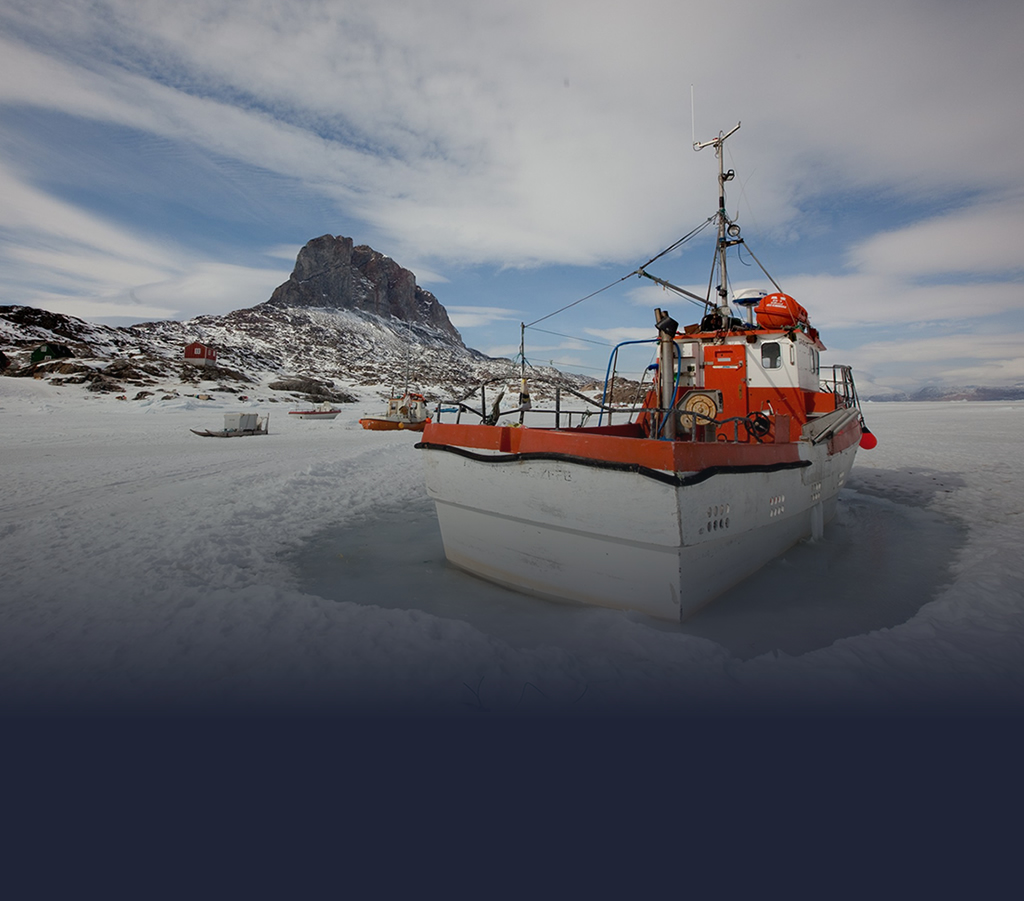
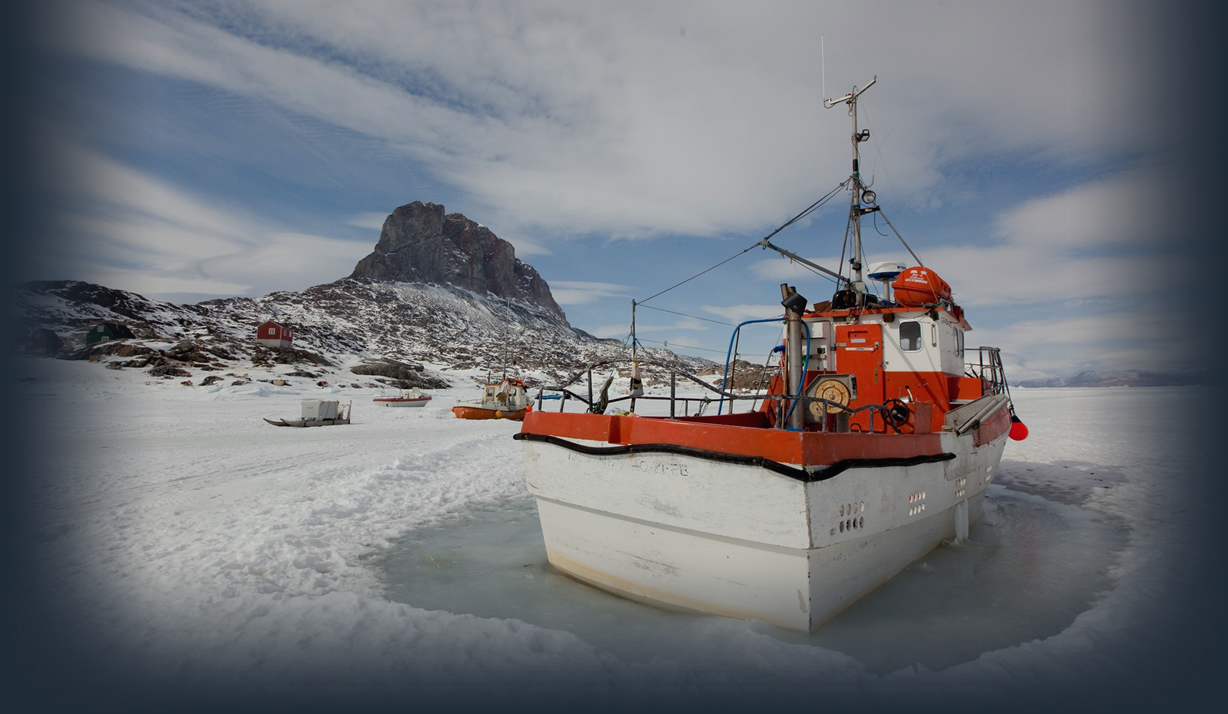
error pages

diff --git a/public/stylesheets/layout.css b/public/stylesheets/layout.css
@@ -4,6 +4,8 @@ body.posts {background:url('../images/backgrounds/2.jpg') no-repeat center 0 #8C
 body.events {background:url('../images/backgrounds/4.jpg') no-repeat center 0 #131F26;}
 body.galleries {background:url('../images/backgrounds/1.jpg') no-repeat center 0 #202B38;}
 body.sitemap {background:url('../images/backgrounds/sitemap.jpg') no-repeat center 0 #202B38;}
+body.error_notfound {background:url('../images/backgrounds/404.jpg') no-repeat center 0 #202B38;}
+body.error_server {background:url('../images/backgrounds/500.jpg') no-repeat center 0 #202B38;}
 img,fieldset{border:none; padding:0; margin:0;}
 
 body{font:normal 12px Arial;}
@@ -67,9 +69,9 @@ div.error_content_other {min-height:700px;}
 div.error_title {float:left; width:100%;}
 div.error_title.other {min-height:700px;}
 
-div.error_title.other div.inner_title {width:913px; margin:0 auto; padding:50px 0 0 35px; background-color:red; height:700px; background:url('../images/backgrounds/500.jpg') no-repeat 0 0;}
+div.error_title.other div.inner_title {width:913px; margin:0 auto; padding:50px 0 0 35px; height:700px;}
 
-div.error_title div.inner_title {width:913px; margin:0 auto; padding:50px 0 0 35px; background-color:red; height:800px; background:url('../images/backgrounds/404.jpg') no-repeat 0 0;}
+div.error_title div.inner_title {width:913px; margin:0 auto; padding:50px 0 0 35px; height:800px;}
 div.error_title div.inner_title h1 {float:left; padding:90px 0 0 0; width:100%; font:bold 55px Arial; color:white; letter-spacing:-3px; text-shadow:2px 2px rgba(0, 11, 36, 0.3); line-height:54px;}
 div.error_title div.inner_title h3 {float:left; padding:15px 0 40px 0; width:100%; font:bold 25px Arial; color:white; letter-spacing:-1px; text-shadow:1px 1px rgba(0, 11, 36, 0.3);}
 div.error_title div.inner_title a.go_home_bttn {float:left; width:183px; height:42px; background:url('../images/error/go_home_bttn.png') no-repeat 0 0; font:bold 17px Arial; color:white; text-shadow:0px -1px #000000; text-decoration:none; text-align:center; padding:14px 0 0 0; line-height:20px;}
@@ -633,7 +635,7 @@ ul.partners li div.bottom {float:left; width:100%; height:25px; background:url(/
 
 
 /*FAQ*/
-
+div.faq_block.first {margin:14px 0 0 0;}
 div.faq_block {float:left; width:633px;}
 div.faq_block div.head_faq div.top {float:left; width:633px; height:15px; background:url(/images/round/top_orange.png) no-repeat 0 0; margin:22px 0 0 0;}
 div.faq_block div.head_faq div.top.first {margin:35px 0 0 0;}

diff --git a/public/404.html b/public/404.html
@@ -8,11 +8,7 @@
   <meta http-equiv="Content-Type" content="text/html; charset=UTF-8" />
 </head>
 
-<body>
-
-  <div id="supersize">
-    <img src="images/backgrounds/404.jpg" />
-  </div>
+<body class="error_notfound">
 
   <div class="layout">
       <div id="header">
@@ -31,7 +27,7 @@
         </div>
       </div>
 
-    <div id="body_content" class='error_content'>
+    <div id="body_content">
     <div id='no_css_body_content_left'>
 	<div class="error_content">
 		<div class="error_title">

diff --git a/public/500.html b/public/500.html
@@ -7,7 +7,7 @@
   <meta http-equiv="Content-Type" content="text/html; charset=UTF-8" />
 </head>
 
-<body>
+<body class="error_server">
 
   <div class="layout">
       <div id="header">

diff --git a/db/methane_static_pages.rb b/db/methane_static_pages.rb
@@ -247,7 +247,7 @@ html = <<-HTML
 
       <div id="body_content_left">
 
-        <div class="faq_block">
+        <div class="faq_block first">
           <div class="head_faq">
             <div class="top"></div>
             <div class="middle">
